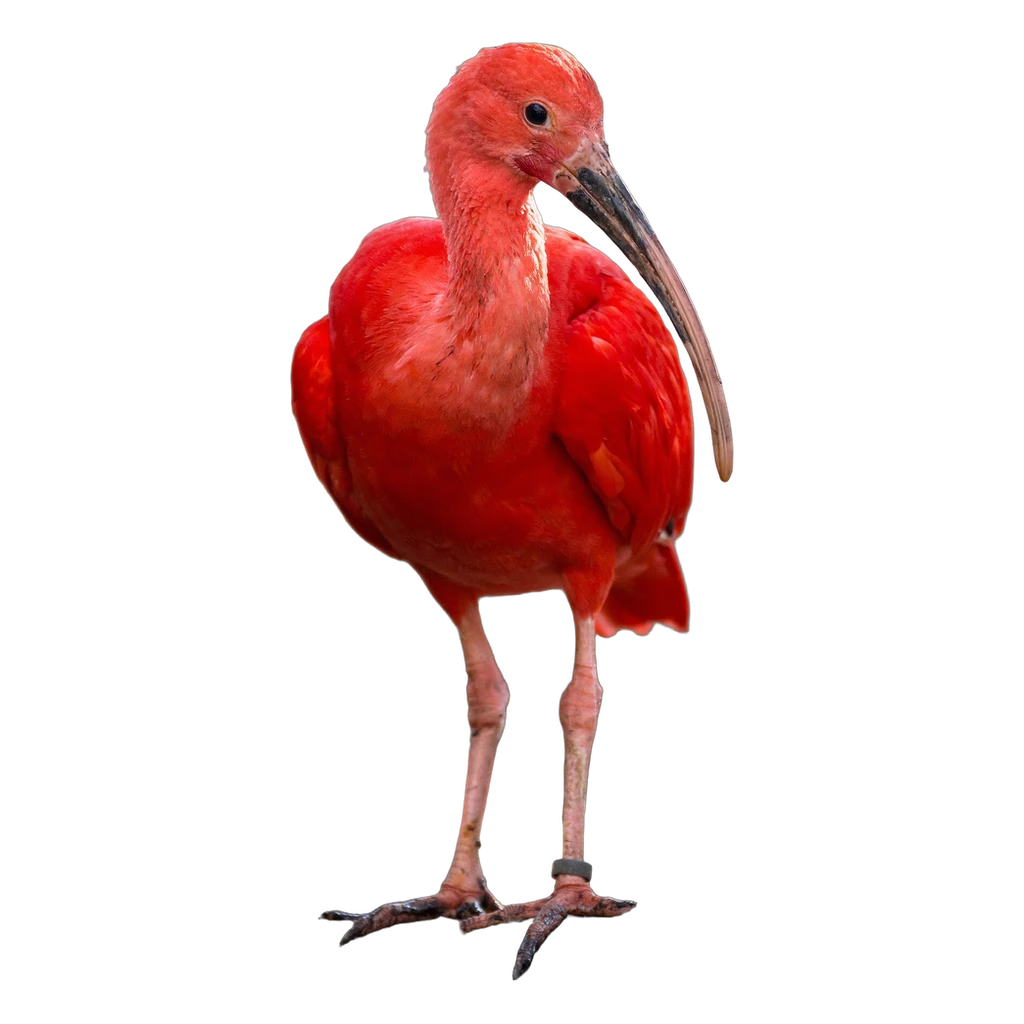
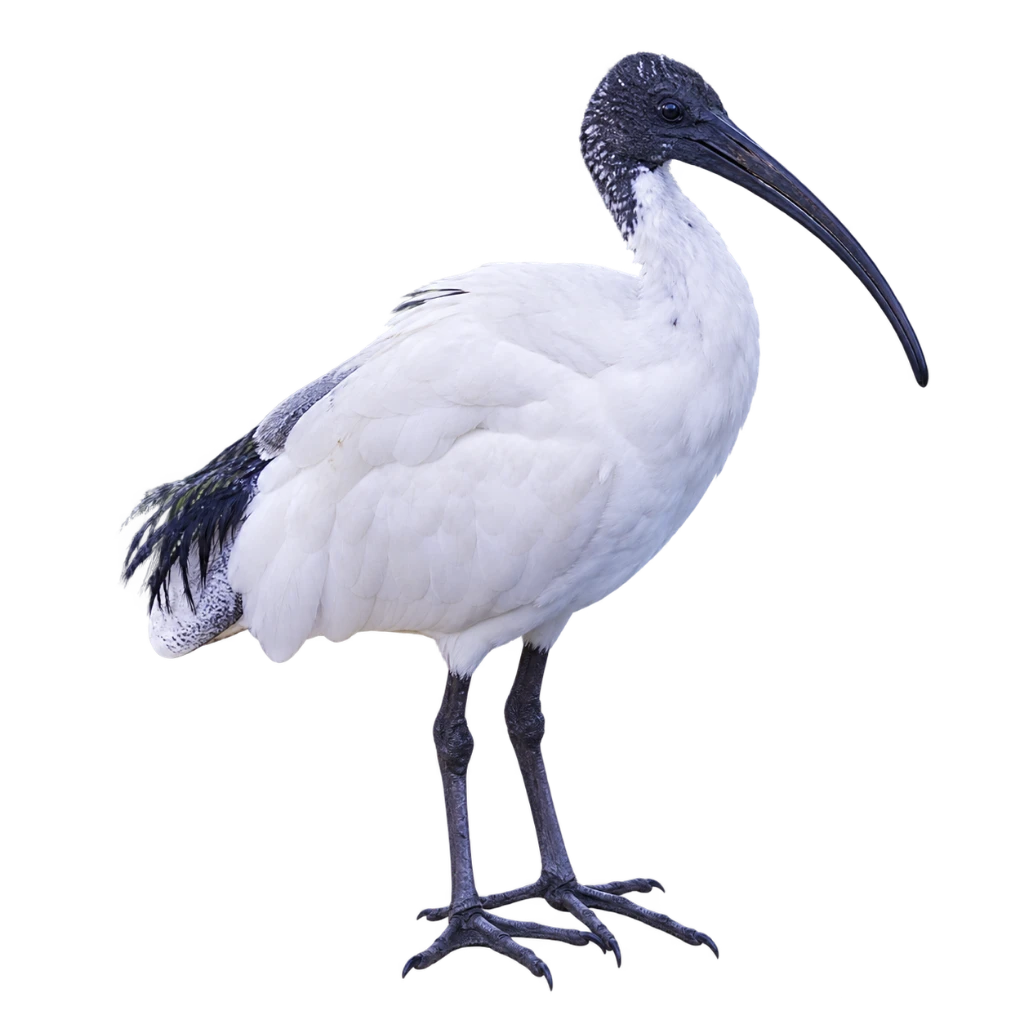
Replace scarlet ibis photo with white and black ibis

Changed region(s): [[0.0938, 0.0312, 0.9062, 0.9688], [0.6562, 0.9062, 0.7188, 0.9375]]

diff --git a/docs/assets/who-am-i-photo-credits.md b/docs/assets/who-am-i-photo-credits.md
@@ -271,10 +271,12 @@ The structured attribution record is [`src/data/creaturePhotoCredits.json`](../.
 ## Ibis
 
 - Asset: `ibis.webp`
-- Photographer: Rafa Esteve
-- Source: [File:Oceanografic Scarlet Ibis 02.jpg](https://commons.wikimedia.org/wiki/File:Oceanografic_Scarlet_Ibis_02.jpg)
+- Photographer: Ymblanter
+- Source: [File:Sydney Royal Botanic Gardens Australian white ibis.jpg](https://commons.wikimedia.org/wiki/File:Sydney_Royal_Botanic_Gardens_Australian_white_ibis.jpg)
 - Licence: [CC BY-SA 4.0](https://creativecommons.org/licenses/by-sa/4.0)
-- Modifications: Background removed locally; subject isolated; trimmed, resized and centred. No generated animal pixels.
+- Modifications: AI-assisted background removal and subject isolation using OpenAI imagegen; resized and centred on a transparent canvas. Animal detail may differ from the original photograph.
+- Editing mode: built-in imagegen, background extraction; exported as 1024 × 1024 WebP with alpha.
+- Prompt: "Use case: background-extraction. Edit target: the supplied photograph of an Australian white ibis. Remove only the surroundings (grass, pool, stone ledge) and isolate the existing bird on a genuinely transparent background. Preserve the photographed bird's pose, proportions, feather details, white body, black head, long curved black bill, black legs and feet. Do not redraw, stylize, recolor or invent animal features. Centre the complete bird in a square 1024x1024 canvas, fitting its entire silhouette with about 6% transparent padding above and below. No text, shadows, border or additional objects. Preserve photographic realism and use real alpha transparency."
 
 ## Jackal
 
